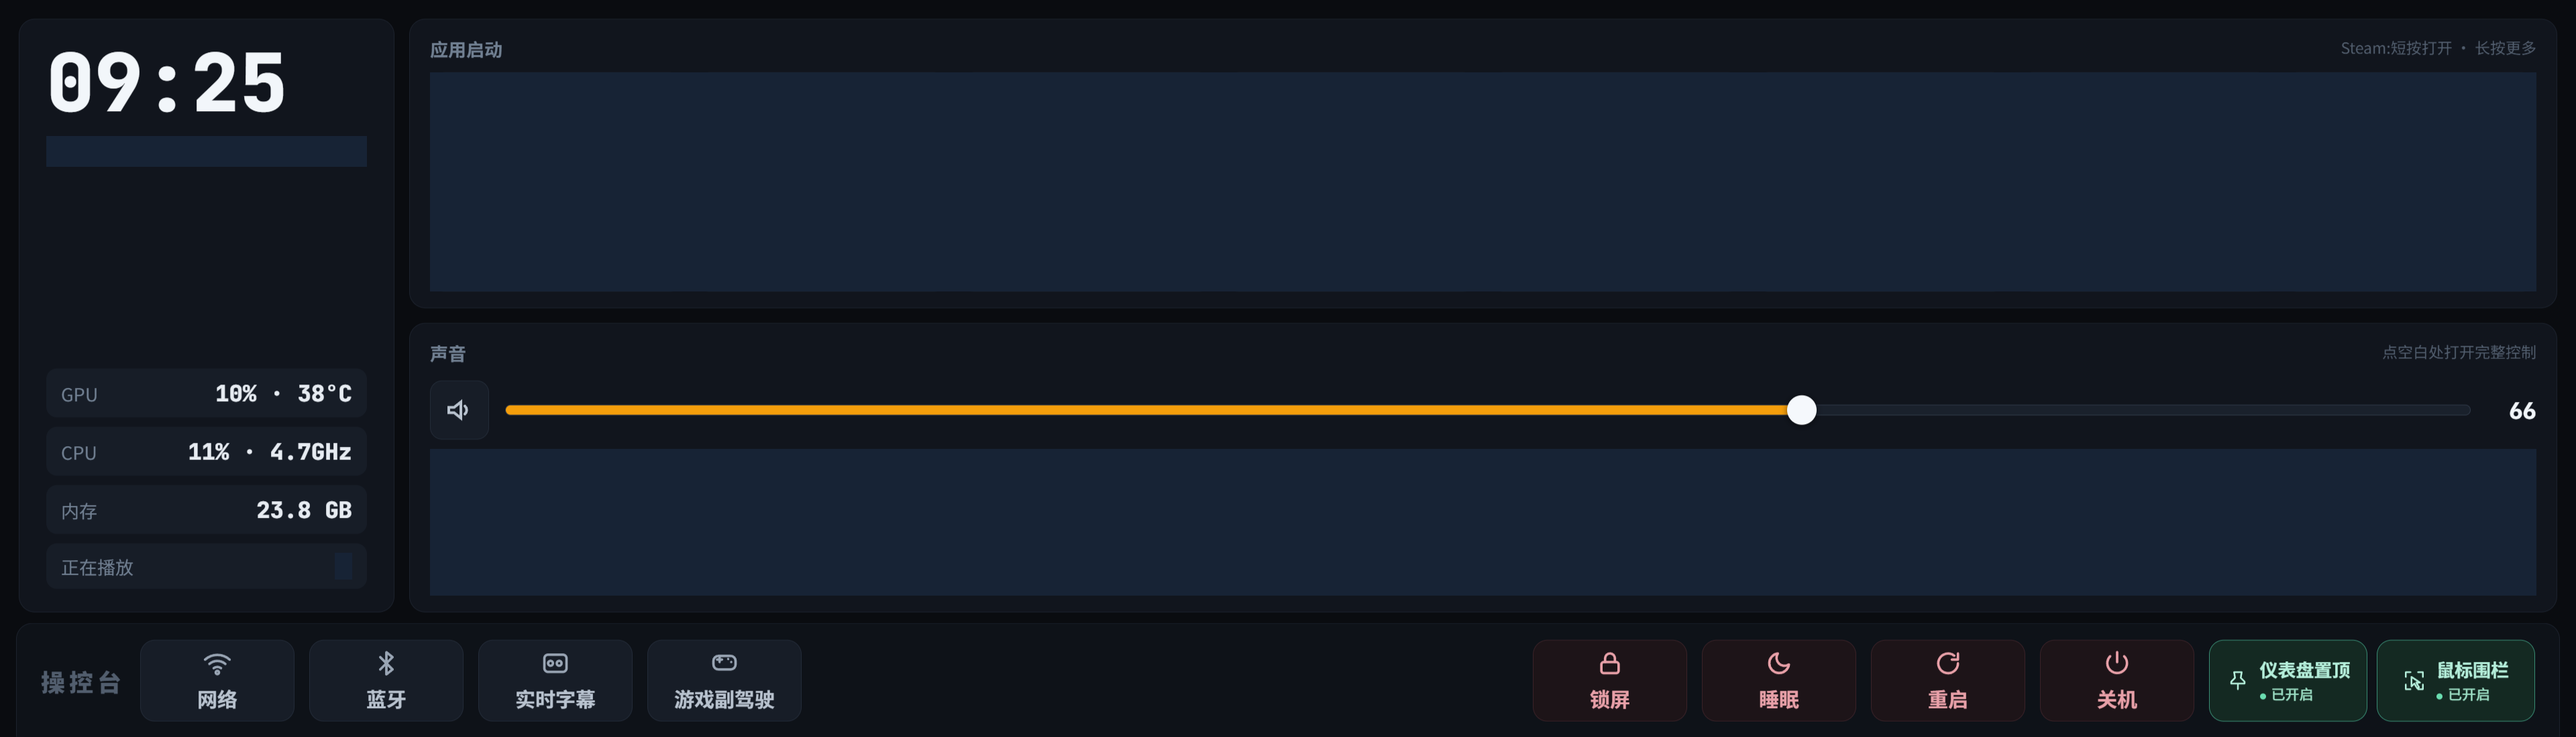
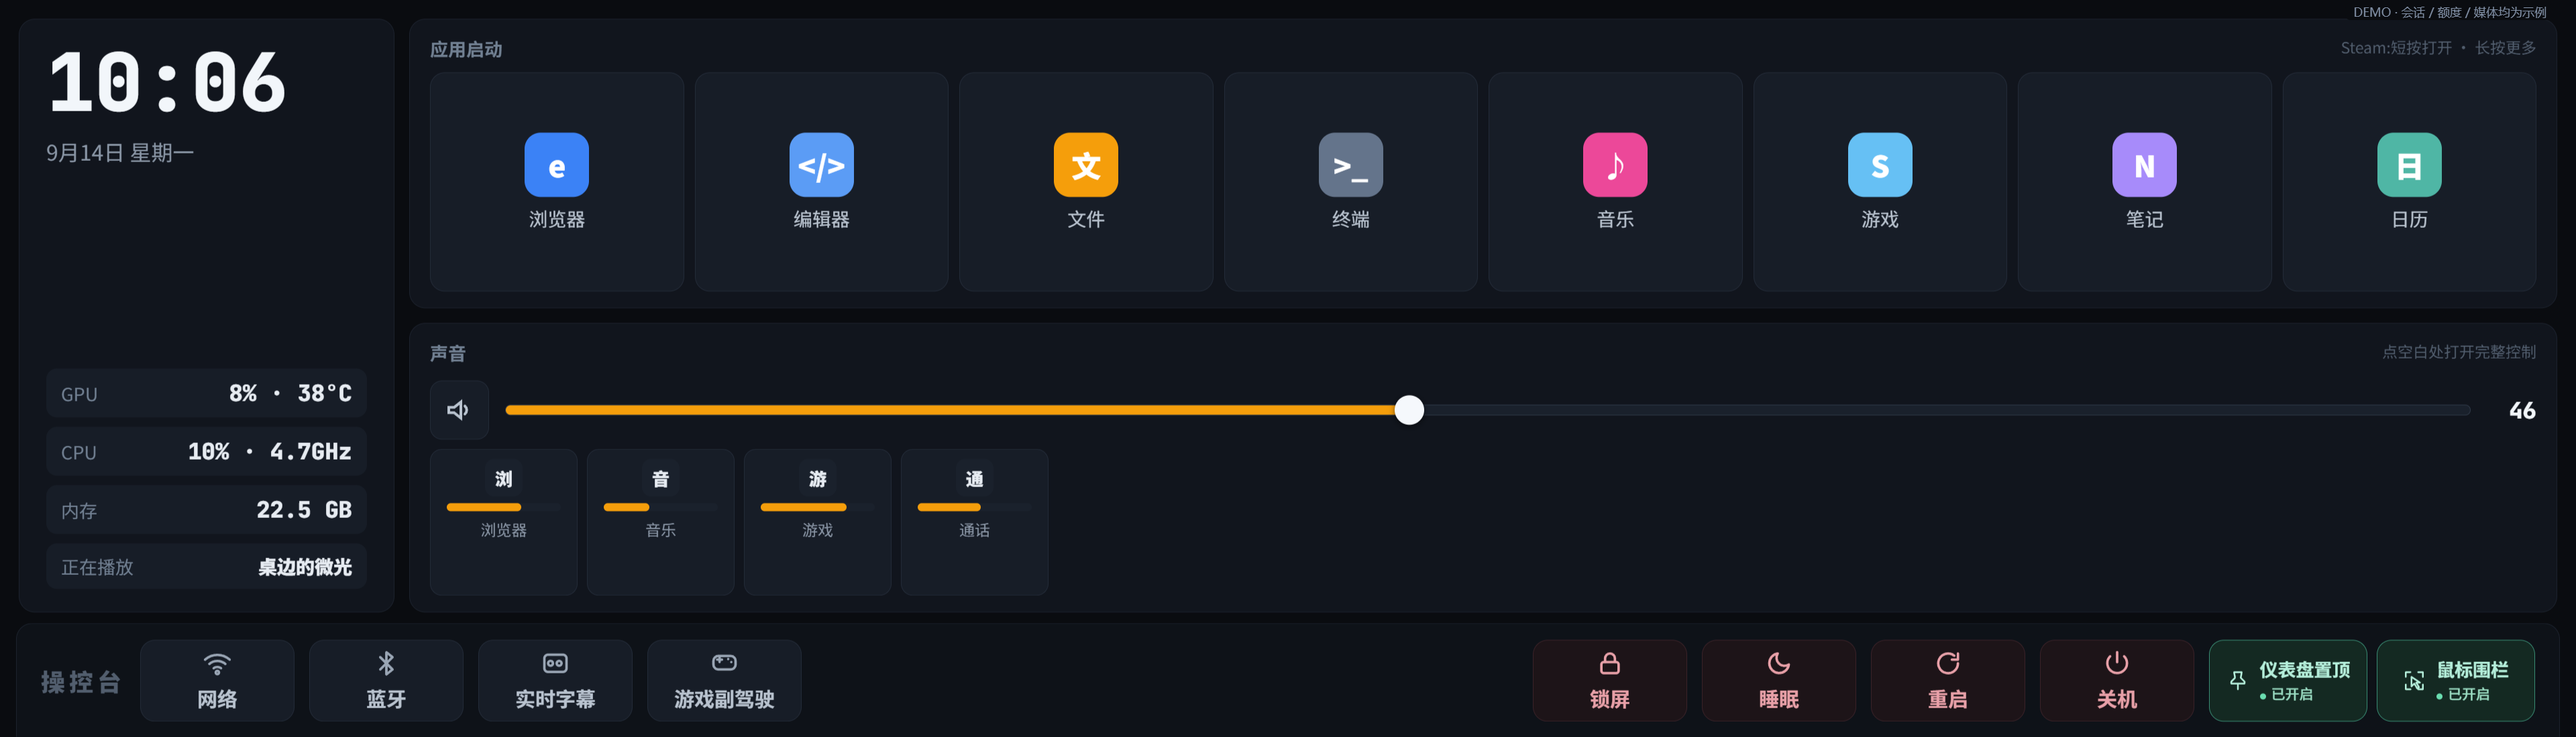
docs: fill showcase screenshots with realistic demo content

diff --git a/docs/PRIVACY.md b/docs/PRIVACY.md
@@ -4,9 +4,9 @@
 
 ## 图片
 
-`docs/images/cover.svg` 是代码绘制的界面示意。三个 PNG 来自实际运行页面：在独立、无头浏览器中读取页面后，将会话卡、设备信息、账号额度、媒体、日历、通知及应用列表用实心颜色遮挡，再编码截图。没有先保存未脱敏图片。图中保留了性能指标和布局，它们不代表固定产品参数。
+`docs/images/cover.svg` 是代码绘制的界面示意。四个 PNG 来自实际运行页面，但在浏览器请求阶段以 `tools/showcase-data.cjs` 的虚构数据替代会话、额度、媒体、日历、通知、音频与应用配置响应。敏感接口不返回真实内容，因此不需要把展示区域留空。图片包含 DEMO 标注；示例额度不代表实际账号用量。图中保留了本机性能指标和布局，它们不代表固定产品参数。
 
-更新截图可以使用 `tools/capture-showcase.cjs`（需单独安装 Playwright 和 Edge）；脚本拒绝所有非 GET/HEAD 请求。界面发生变化时，必须重新检查遮挡选择器并人工审阅全部图片，不能只因为旧脚本运行成功就认定新截图安全。
+更新截图可以使用 `tools/capture-showcase.cjs`（需单独安装 Playwright 和 Edge）；脚本拒绝所有非 GET/HEAD 请求。示例数据仅供截图脚本使用，不参与实际运行。界面发生变化时，必须重新检查数据接口并人工审阅全部图片，不能只因为旧脚本运行成功就认定新截图安全。
 
 ## 禁止提交
 
